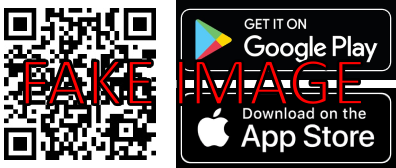
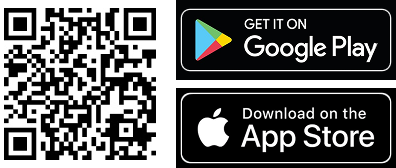
a to link

diff --git a/src/components/Footer/Footer.tsx b/src/components/Footer/Footer.tsx
@@ -1,7 +1,7 @@
 import clsx from 'clsx';
 import styles from './Footer.module.scss';
 import React from 'react';
-import { useNavigate } from 'react-router-dom';
+import { Link, useNavigate } from 'react-router-dom';
 
 export const Footer: React.FC = () => {
   const navigate = useNavigate();
@@ -21,7 +21,9 @@ export const Footer: React.FC = () => {
                   alt='logo'
                   onClick={home}
                 />
-                <a href='/contact#contactUs'>Subscribe</a>
+                <Link to='/contact' className={styles.link}>
+                  Subscribe
+                </Link>
               </div>
               <p>Get 10% off your first order</p>
             </div>
@@ -41,7 +43,11 @@ export const Footer: React.FC = () => {
             <div className={styles.address}>
               <p>WPH Ahademy 191, Jakarta</p>
               <p>shopzonefake@gmail.com</p>
-              <a href='https://wa.me/6285892599073?text=Assalamualaikum%20Mba%20Dwi'>
+              <a
+                href='https://wa.me/6285892599073?text=Assalamualaikum%20Mba%20Dwi'
+                target='_blank'
+                rel='noopener noreferrer'
+              >
                 +62-858-9259-9073 (WhatsApp)
               </a>
             </div>
@@ -50,19 +56,29 @@ export const Footer: React.FC = () => {
             <h3>Account</h3>
             <ul>
               <li>
-                <a href='#'>My Account</a>
+                <Link to='/#home' className={styles.link}>
+                  My Account
+                </Link>
               </li>
               <li>
-                <a href='#'>Login / Register</a>
+                <Link to='/#home' className={styles.link}>
+                  Login / Register
+                </Link>
               </li>
               <li>
-                <a href='/cart'>Cart</a>
+                <Link to='/cart' className={styles.link}>
+                  Cart
+                </Link>
               </li>
               <li>
-                <a href='/wishlist'>Wishlist</a>
+                <Link to='/wishlist' className={styles.link}>
+                  Wishlist
+                </Link>
               </li>
               <li>
-                <a href='/#products'>Shop</a>
+                <Link to='/#products' className={styles.link}>
+                  Shop
+                </Link>
               </li>
             </ul>
           </div>
@@ -70,16 +86,24 @@ export const Footer: React.FC = () => {
             <h3>Quick Link</h3>
             <ul>
               <li>
-                <a href='/error-404'>Privacy Policy</a>
+                <Link to='/error-404' className={styles.link}>
+                  Privacy Policy
+                </Link>
               </li>
               <li>
-                <a href='/error-404'>Terms Of Use</a>
+                <Link to='/error-404' className={styles.link}>
+                  Terms Of Use
+                </Link>
               </li>
               <li>
-                <a href='/error-404'>FAQ</a>
+                <Link to='/error-404' className={styles.link}>
+                  FAQ
+                </Link>
               </li>
               <li>
-                <a href='/contact#contactUs'>Contact</a>
+                <Link to='/contact#contactUs' className={styles.link}>
+                  Contact
+                </Link>
               </li>
             </ul>
           </div>
@@ -88,10 +112,7 @@ export const Footer: React.FC = () => {
               <h3>Download App</h3>
               <div className={styles.mapIconDownload}>
                 <p>Save $3 with App New User Only</p>
-                <img
-                  src='/assets/Images/download-barcode.png'
-                  alt='fake image'
-                />
+                <img src='/assets/Images/download-barcode.png' alt='barcode' />
               </div>
             </div>
             <div className={styles.iconSosmed}>

diff --git a/src/components/Footer/Footer.module.scss b/src/components/Footer/Footer.module.scss
@@ -35,7 +35,7 @@
                 scale: (1.1);
               }
             }
-            a {
+            .link {
               @include typography('title-20PX', 'medium');
               font-size: clamp(0.88rem, 1.58vw, 1.25rem);
               line-height: clamp(1.31rem, 2.21vw, 1.75rem);
@@ -62,12 +62,15 @@
           border-radius: rem-calc(4);
           justify-content: space-between;
           padding: rem-calc(8);
+          &:focus-within {
+            border-color: $Button1;
+          }
           input {
             @include typography('title-16PX', 'regular');
             font-size: clamp(0.75rem, 1.31vw, 1rem);
             line-height: clamp(1.13rem, 1.9vw, 1.5rem);
             color: $Text;
-            opacity: 40%;
+            // opacity: 40%;
             background-color: transparent;
             border: none;
             outline: none;
@@ -142,7 +145,7 @@
           flex-direction: column;
           gap: clamp(0.5rem, 1.26vw, 1rem);
           li {
-            a {
+            .link {
               @include typography('title-16PX', 'regular');
               font-size: clamp(0.75rem, 1.31vw, 1rem);
               line-height: clamp(1.13rem, 1.9vw, 1.5rem);

diff --git a/src/pages/Contact.tsx b/src/pages/Contact.tsx
@@ -20,7 +20,7 @@ export const ContactPage: React.FC = () => {
       <div className={styles.navbar}>
         <Header />
       </div>
-      <div className={clsx('container', styles.notFound)}>
+      <div className={clsx('container', styles.notFound)} id='contactUs'>
         <h1>Contact</h1>
         <div className={styles.button}>
           <Button color='primary' onClick={backToHome}>

diff --git a/src/pages/AboutPage.tsx b/src/pages/AboutPage.tsx
@@ -20,7 +20,7 @@ export const AboutPage: React.FC = () => {
       <div className={styles.navbar}>
         <Header />
       </div>
-      <main className={clsx('container', styles.mainContent)}>
+      <main className={clsx('container', styles.mainContent)} id='aboutUs'>
         <div className={styles.notFound}>
           <h1>About Us</h1>
           <div className={styles.button}>

diff --git a/src/pages/SignUpPage.tsx b/src/pages/SignUpPage.tsx
@@ -20,7 +20,7 @@ export const SignUpPage: React.FC = () => {
       <div className={styles.navbar}>
         <Header />
       </div>
-      <main className={clsx('container', styles.mainContent)}>
+      <main className={clsx('container', styles.mainContent)} id='signIn'>
         <div className={styles.notFound}>
           <h1>Sign Up</h1>
           <div className={styles.button}>
